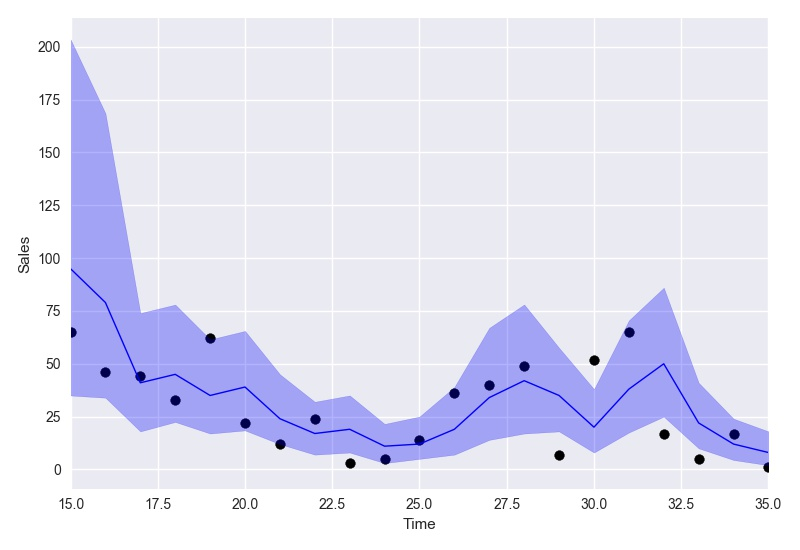
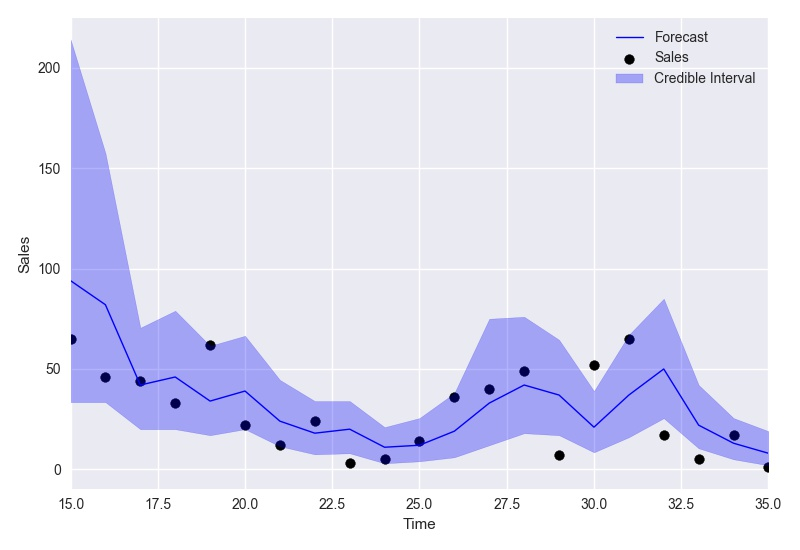
added legend to example

diff --git a/examples/Poisson_DGLM.py b/examples/Poisson_DGLM.py
@@ -15,11 +15,11 @@ forecast_end = 35                                           # End forecast at ti
 
 # Run a simple analysis
 mod, samples = analysis(Y, X, family="poisson",
-                        forecast_start = forecast_start,    # First time step to forecast on
+                        forecast_start=forecast_start,    # First time step to forecast on
                         forecast_end=forecast_end,          # Final time step to forecast on
-                        k = k,                              # Forecast horizon. If k>1, default is to forecast 1:k steps ahead, marginally
+                        k=k,                              # Forecast horizon. If k>1, default is to forecast 1:k steps ahead, marginally
                         prior_length=6,                     # How many data point to use in defining prior
-                        rho = .5,                           # Random effect extension, increases variance of Poisson DGLM (see Berry and West, 2019)
+                        rho=.5,                           # Random effect extension, increases variance of Poisson DGLM (see Berry and West, 2019)
                         deltrend=0.95,                      # Discount factor on the trend component (intercept)
                         delregn=0.95                        # Discount factor on the regression component
                         )
@@ -30,5 +30,6 @@ forecast = median(samples)                                  # Take the median as
 fig, ax = plt.subplots(1,1)                                 # Plot the 1-step ahead point forecast plus the 95% credible interval
 ax = plot_data_forecast(fig, ax, Y[forecast_start:forecast_end + k], forecast, samples,
                         dates=np.arange(forecast_start, forecast_end+1, dtype='int'))
-ax = ax_style(ax, ylabel='Sales', xlabel='Time', xlim=[forecast_start, forecast_end])
+ax = ax_style(ax, ylabel='Sales', xlabel='Time', xlim=[forecast_start, forecast_end],
+              legend=['Forecast', 'Sales', 'Credible Interval'])
 plt.savefig('./forecast.jpg')

diff --git a/README.md b/README.md
@@ -40,11 +40,11 @@ We use the *analysis* function as a helper to a) define the model b) Run sequent
 from pybats.analysis import analysis
 
 mod, samples = analysis(Y, X, family="poisson",
-forecast_start = forecast_start,    # First time step to forecast on
+forecast_start=forecast_start,    # First time step to forecast on
 forecast_end=forecast_end,          # Final time step to forecast on
-k = k,                              # Forecast horizon. If k>1, default is to forecast 1:k steps ahead, marginally
+k=k,                              # Forecast horizon. If k>1, default is to forecast 1:k steps ahead, marginally
 prior_length=6,                     # How many data point to use in defining prior
-rho = .5,                           # Random effect extension, increases variance of Poisson DGLM (see Berry and West, 2019)
+rho=.5,                           # Random effect extension, increases variance of Poisson DGLM (see Berry and West, 2019)
 deltrend=0.95,                      # Discount factor on the trend component (intercept)
 delregn=0.95                        # Discount factor on the regression component
 )
